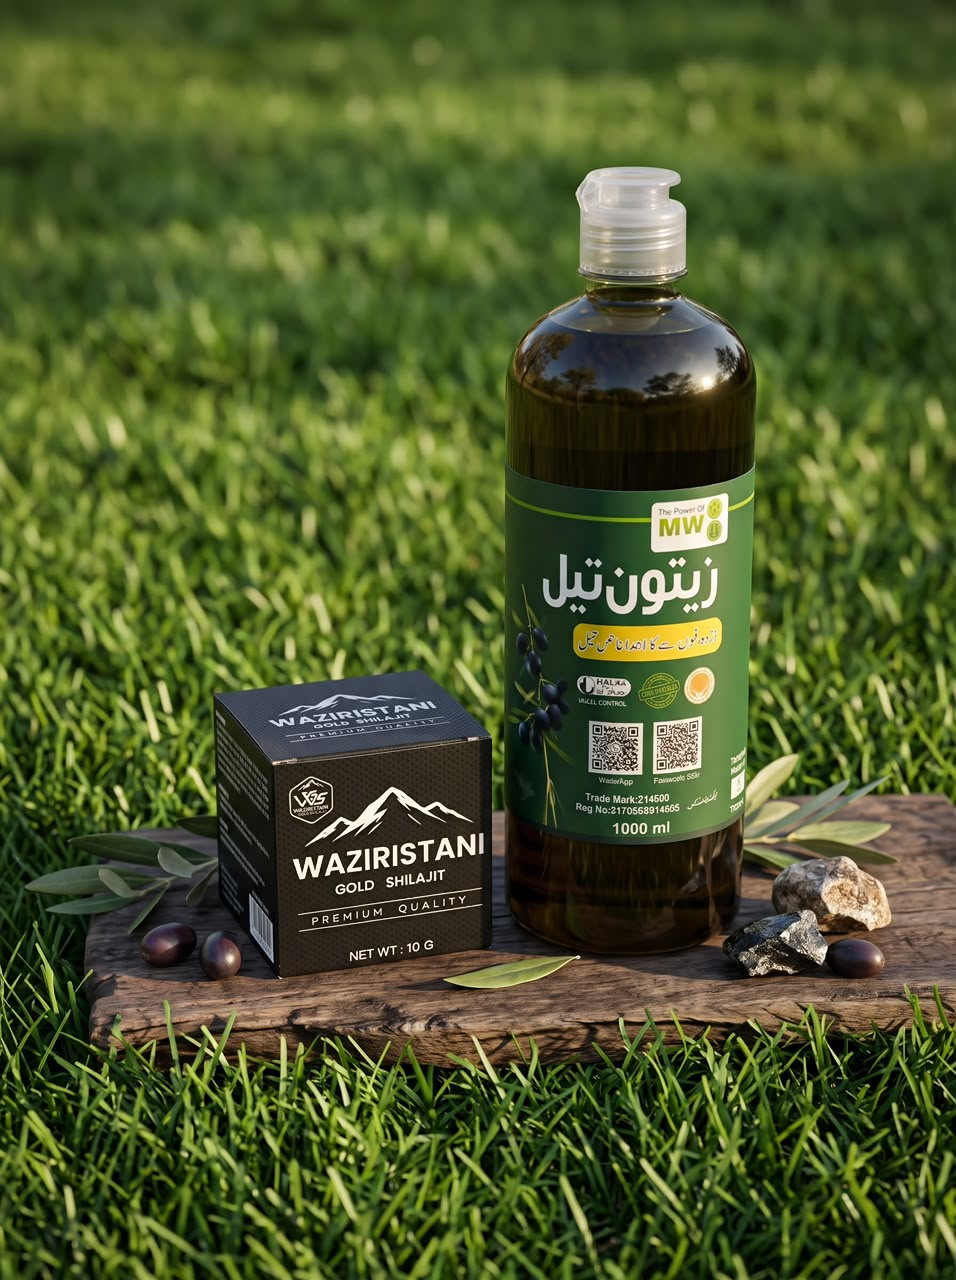
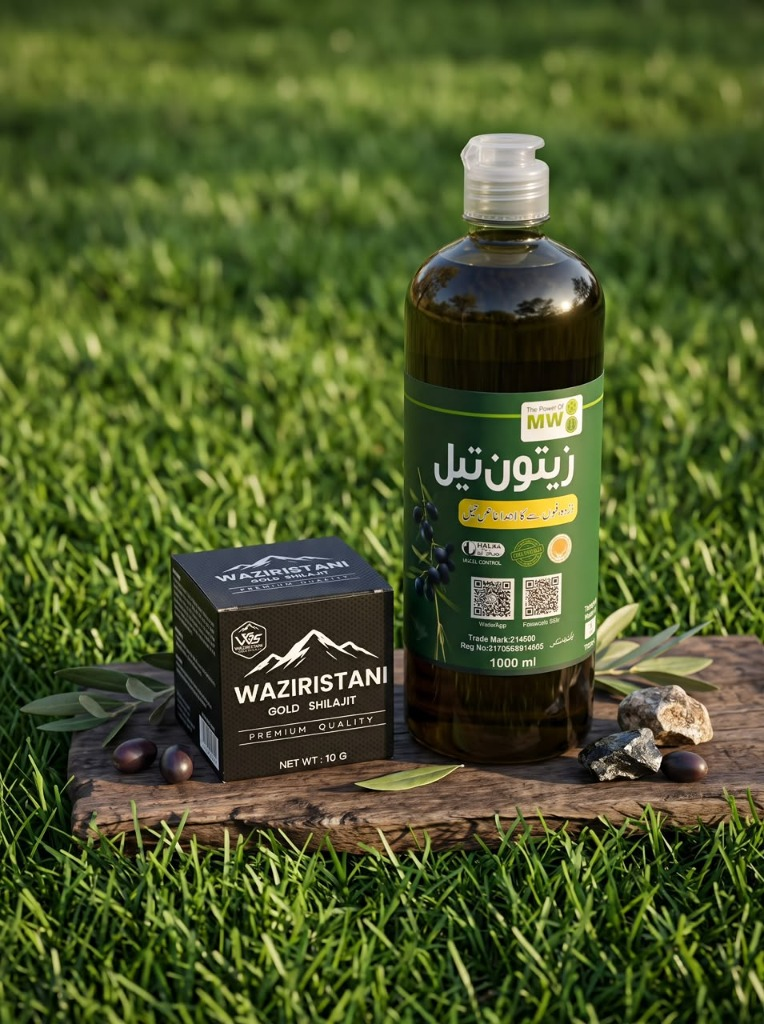
feat: set new official 1000ml bottle + shilajit photo as main hero showcase image

diff --git a/src/pages/Home.tsx b/src/pages/Home.tsx
@@ -230,7 +230,7 @@ export const Home: React.FC = () => {
 
             {/* Right: Authentic Real Product Photography */}
             <div className="lg:col-span-5 relative flex items-center justify-center">
-              <div className="relative w-full max-w-sm sm:max-w-md aspect-square rounded-3xl bg-gradient-to-b from-forest-900 to-forest-950 p-4 sm:p-6 border border-gold-400/40 shadow-2xl flex items-center justify-center overflow-hidden">
+              <div className="relative w-full max-w-sm sm:max-w-md aspect-[4/5] sm:aspect-square rounded-3xl bg-gradient-to-b from-forest-900 to-forest-950 p-3 sm:p-4 border border-gold-400/40 shadow-2xl flex items-center justify-center overflow-hidden">
                 {/* Brand Seal */}
                 <div className="absolute top-3 right-3 z-20 w-12 h-12 sm:w-14 sm:h-14 rounded-full overflow-hidden border-2 border-gold-400/80 shadow-2xl bg-forest-950 p-0.5">
                   <img
@@ -243,11 +243,11 @@ export const Home: React.FC = () => {
                 </div>
 
                 <img
-                  src="/assets/images/products/zaitoon-oil-all-sizes.jpg"
-                  alt="Waziristani Zaitoon Oil 4 Bottle Sizes lineup"
+                  src="/assets/images/products/hero-showcase.jpg"
+                  alt="Waziristani Zaitoon Oil and Mountain Shilajit"
                   className="w-full h-full object-cover rounded-2xl filter drop-shadow-xl"
                   width="450"
-                  height="450"
+                  height="550"
                   loading="eager"
                 />
 
